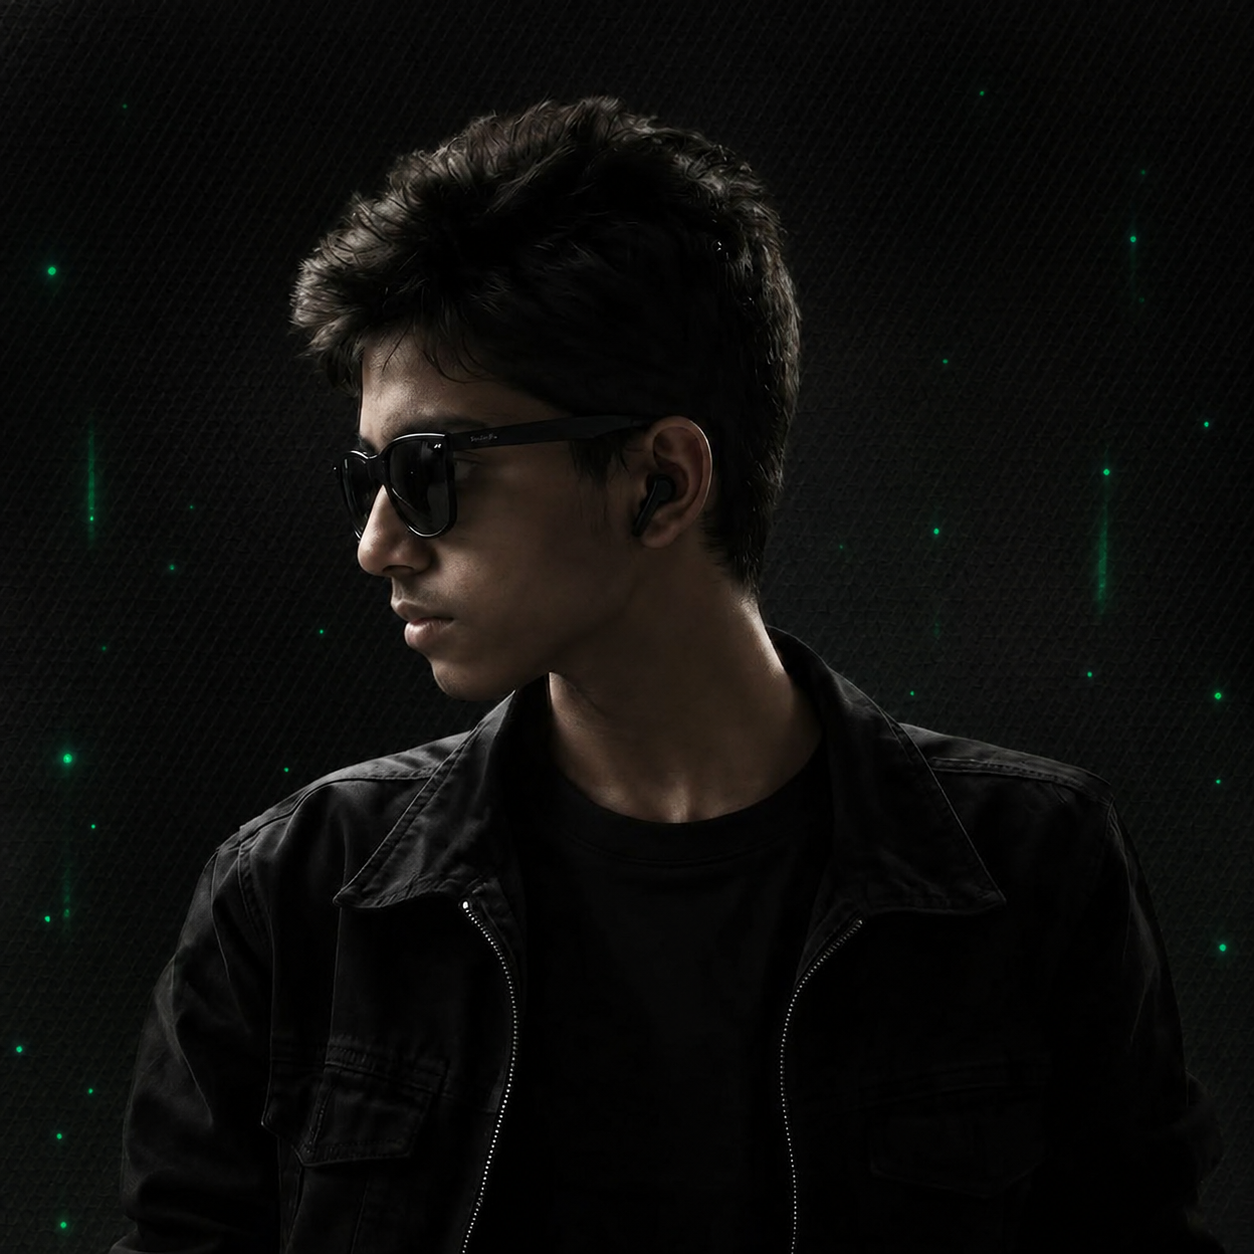
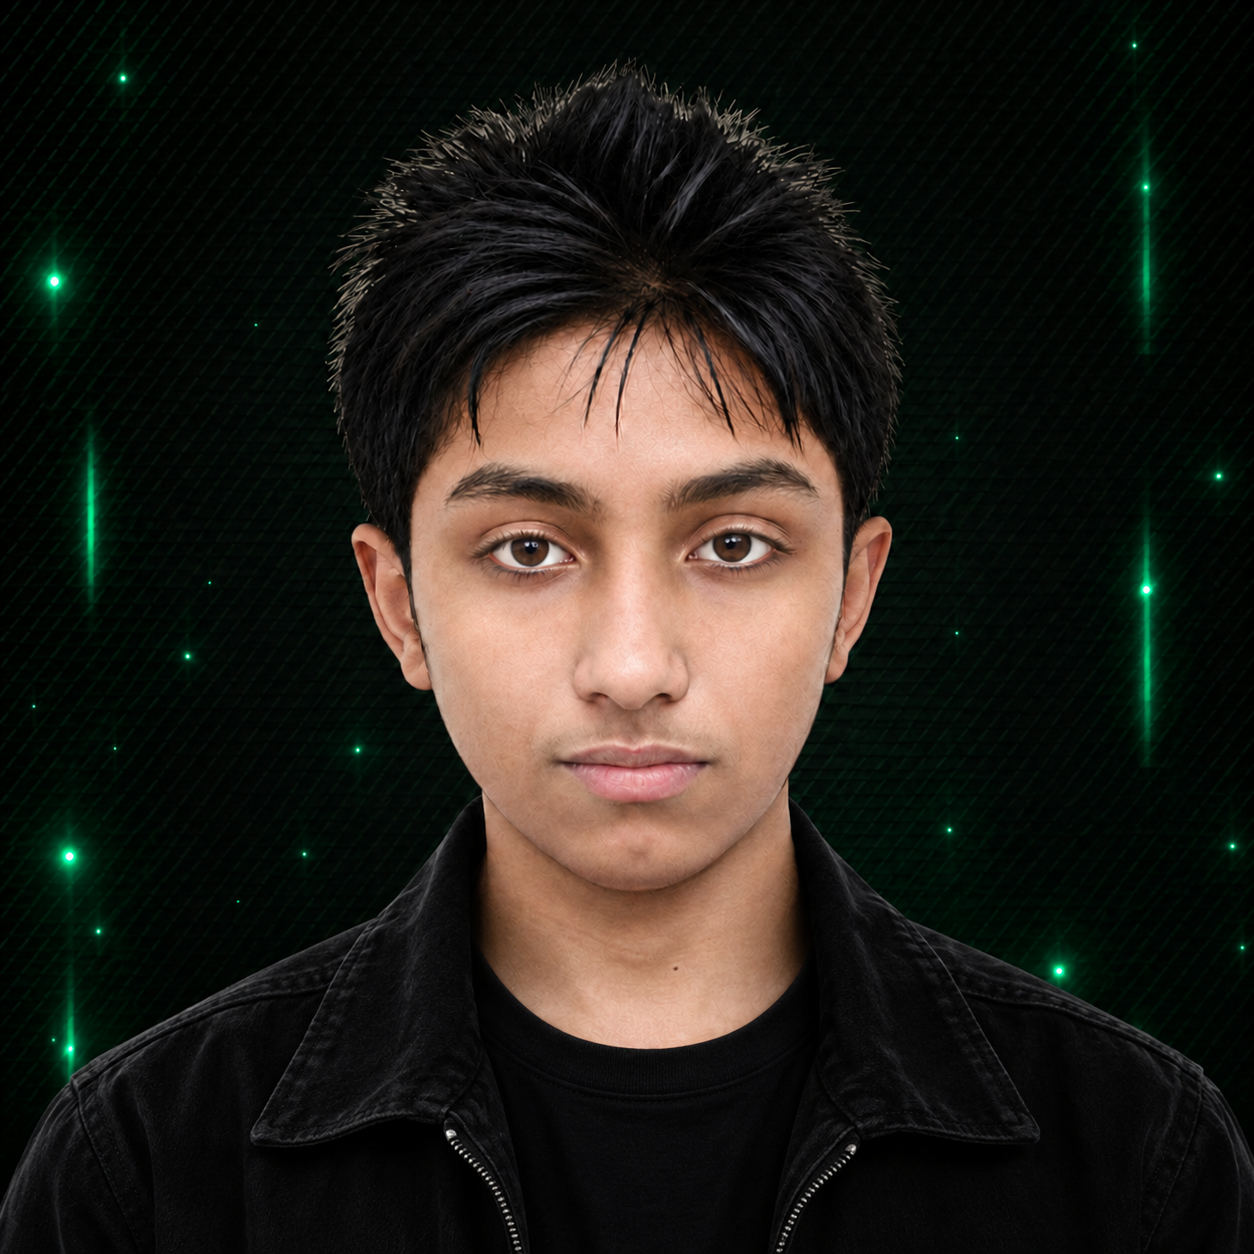
Restore project files

diff --git a/src/components/AllProjects.jsx b/src/components/AllProjects.jsx
@@ -6,6 +6,7 @@ import { Link } from 'react-router-dom';
 export default function AllProjects() {
   // Extended dummy project pool to demonstrate Load More functionality (total 18 items)
   const masterProjects = [
+// 
 
 {
   id: 'hishabflow',
@@ -19,6 +20,7 @@ export default function AllProjects() {
   mockupType: 'hishabflow',
   fullDetails: 'HishabFlow is a full-stack business management software featuring inventory tracking, sales management, customer and supplier records, due payments, expense tracking, invoices, business reports, and business insights. Built with React, Node.js, Express.js, and MongoDB, it brings essential business operations together in one platform.'
 },
+
 
 
 {
@@ -348,6 +350,20 @@ export default function AllProjects() {
 },
 
 
+{
+  id: 'verde-ember-restaurant',
+  badge: '~/projects/verde-ember-restaurant',
+  category: 'RESTAURANT LANDING PAGE',
+  title: 'Verde Ember Restaurant',
+  description: 'A modern, responsive restaurant landing page designed to showcase the dining experience, highlight signature dishes, and create an inviting online presence.',
+  stack: 'React / Tailwind CSS',
+  liveUrl: 'https://verde-ember-restaurant.vercel.app/',
+  githubUrl: 'https://github.com/Sifathossensuvo/verde-ember-restaurant',
+  mockupType: 'verde-ember-restaurant',
+  fullDetails: 'Verde Ember Restaurant is a modern restaurant landing page built with React and Tailwind CSS. It focuses on elegant presentation, responsive layouts, visually engaging food showcases, and a polished user experience to help create a memorable first impression for restaurant visitors.'
+},
+
+
   ];
 
   // Pagination state: display 12 items initially, load 12 more on click
@@ -607,6 +623,19 @@ export default function AllProjects() {
     <div className="text-[#E8F3EC] font-semibold tracking-wider">SHUVO / MEET</div>
     <div className="text-[#9CA3AF]">connect → collaborate → share</div>
     <div className="inline-block px-3 py-1 bg-[#00FF88]/10 border border-[#00FF88]/30 text-[#00FF88] rounded font-bold tracking-wider">[ JOIN MEETING ]</div>
+  </div>
+)}
+{project.mockupType === 'verde-ember-restaurant' && (
+  <div className="w-full font-mono text-[10px] text-center space-y-2">
+    <div className="text-[#E8F3EC] font-semibold tracking-wider">
+      VERDE / EMBER
+    </div>
+    <div className="text-[#9CA3AF]">
+      dine → discover → savor
+    </div>
+    <div className="inline-block px-3 py-1 bg-[#00FF88]/10 border border-[#00FF88]/30 text-[#00FF88] rounded font-bold tracking-wider">
+      [ EXPLORE MENU ]
+    </div>
   </div>
 )}
 
